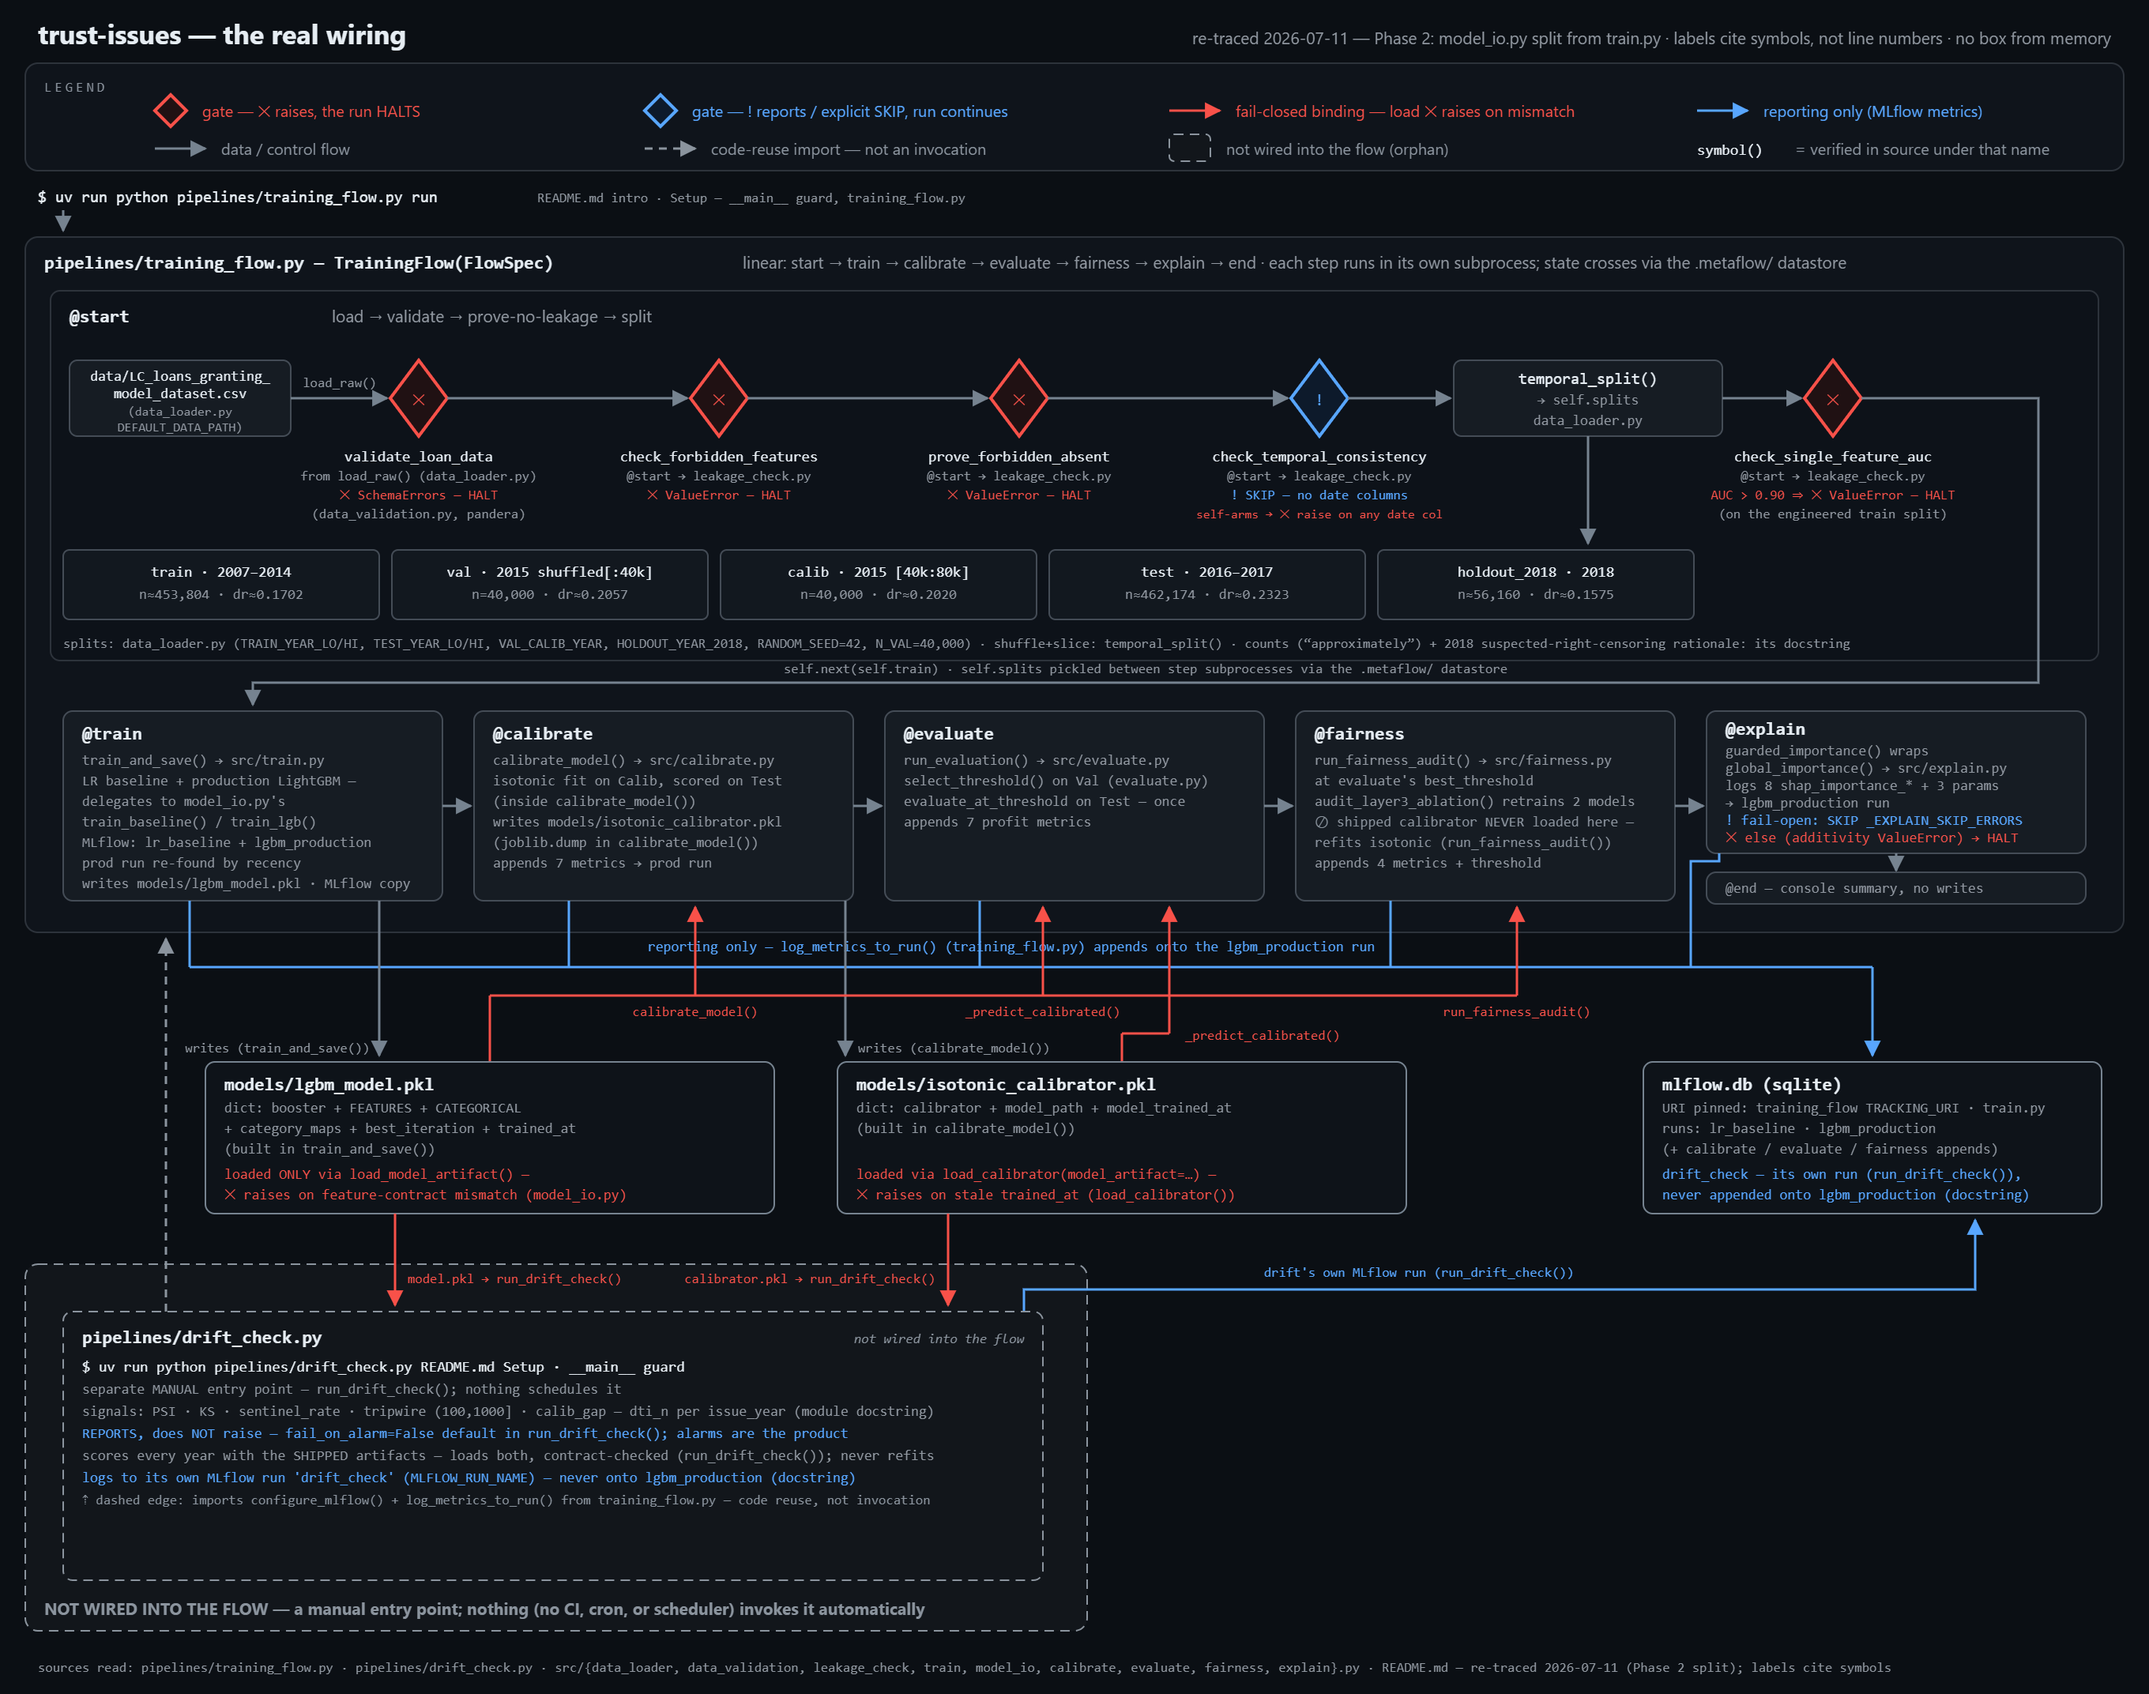
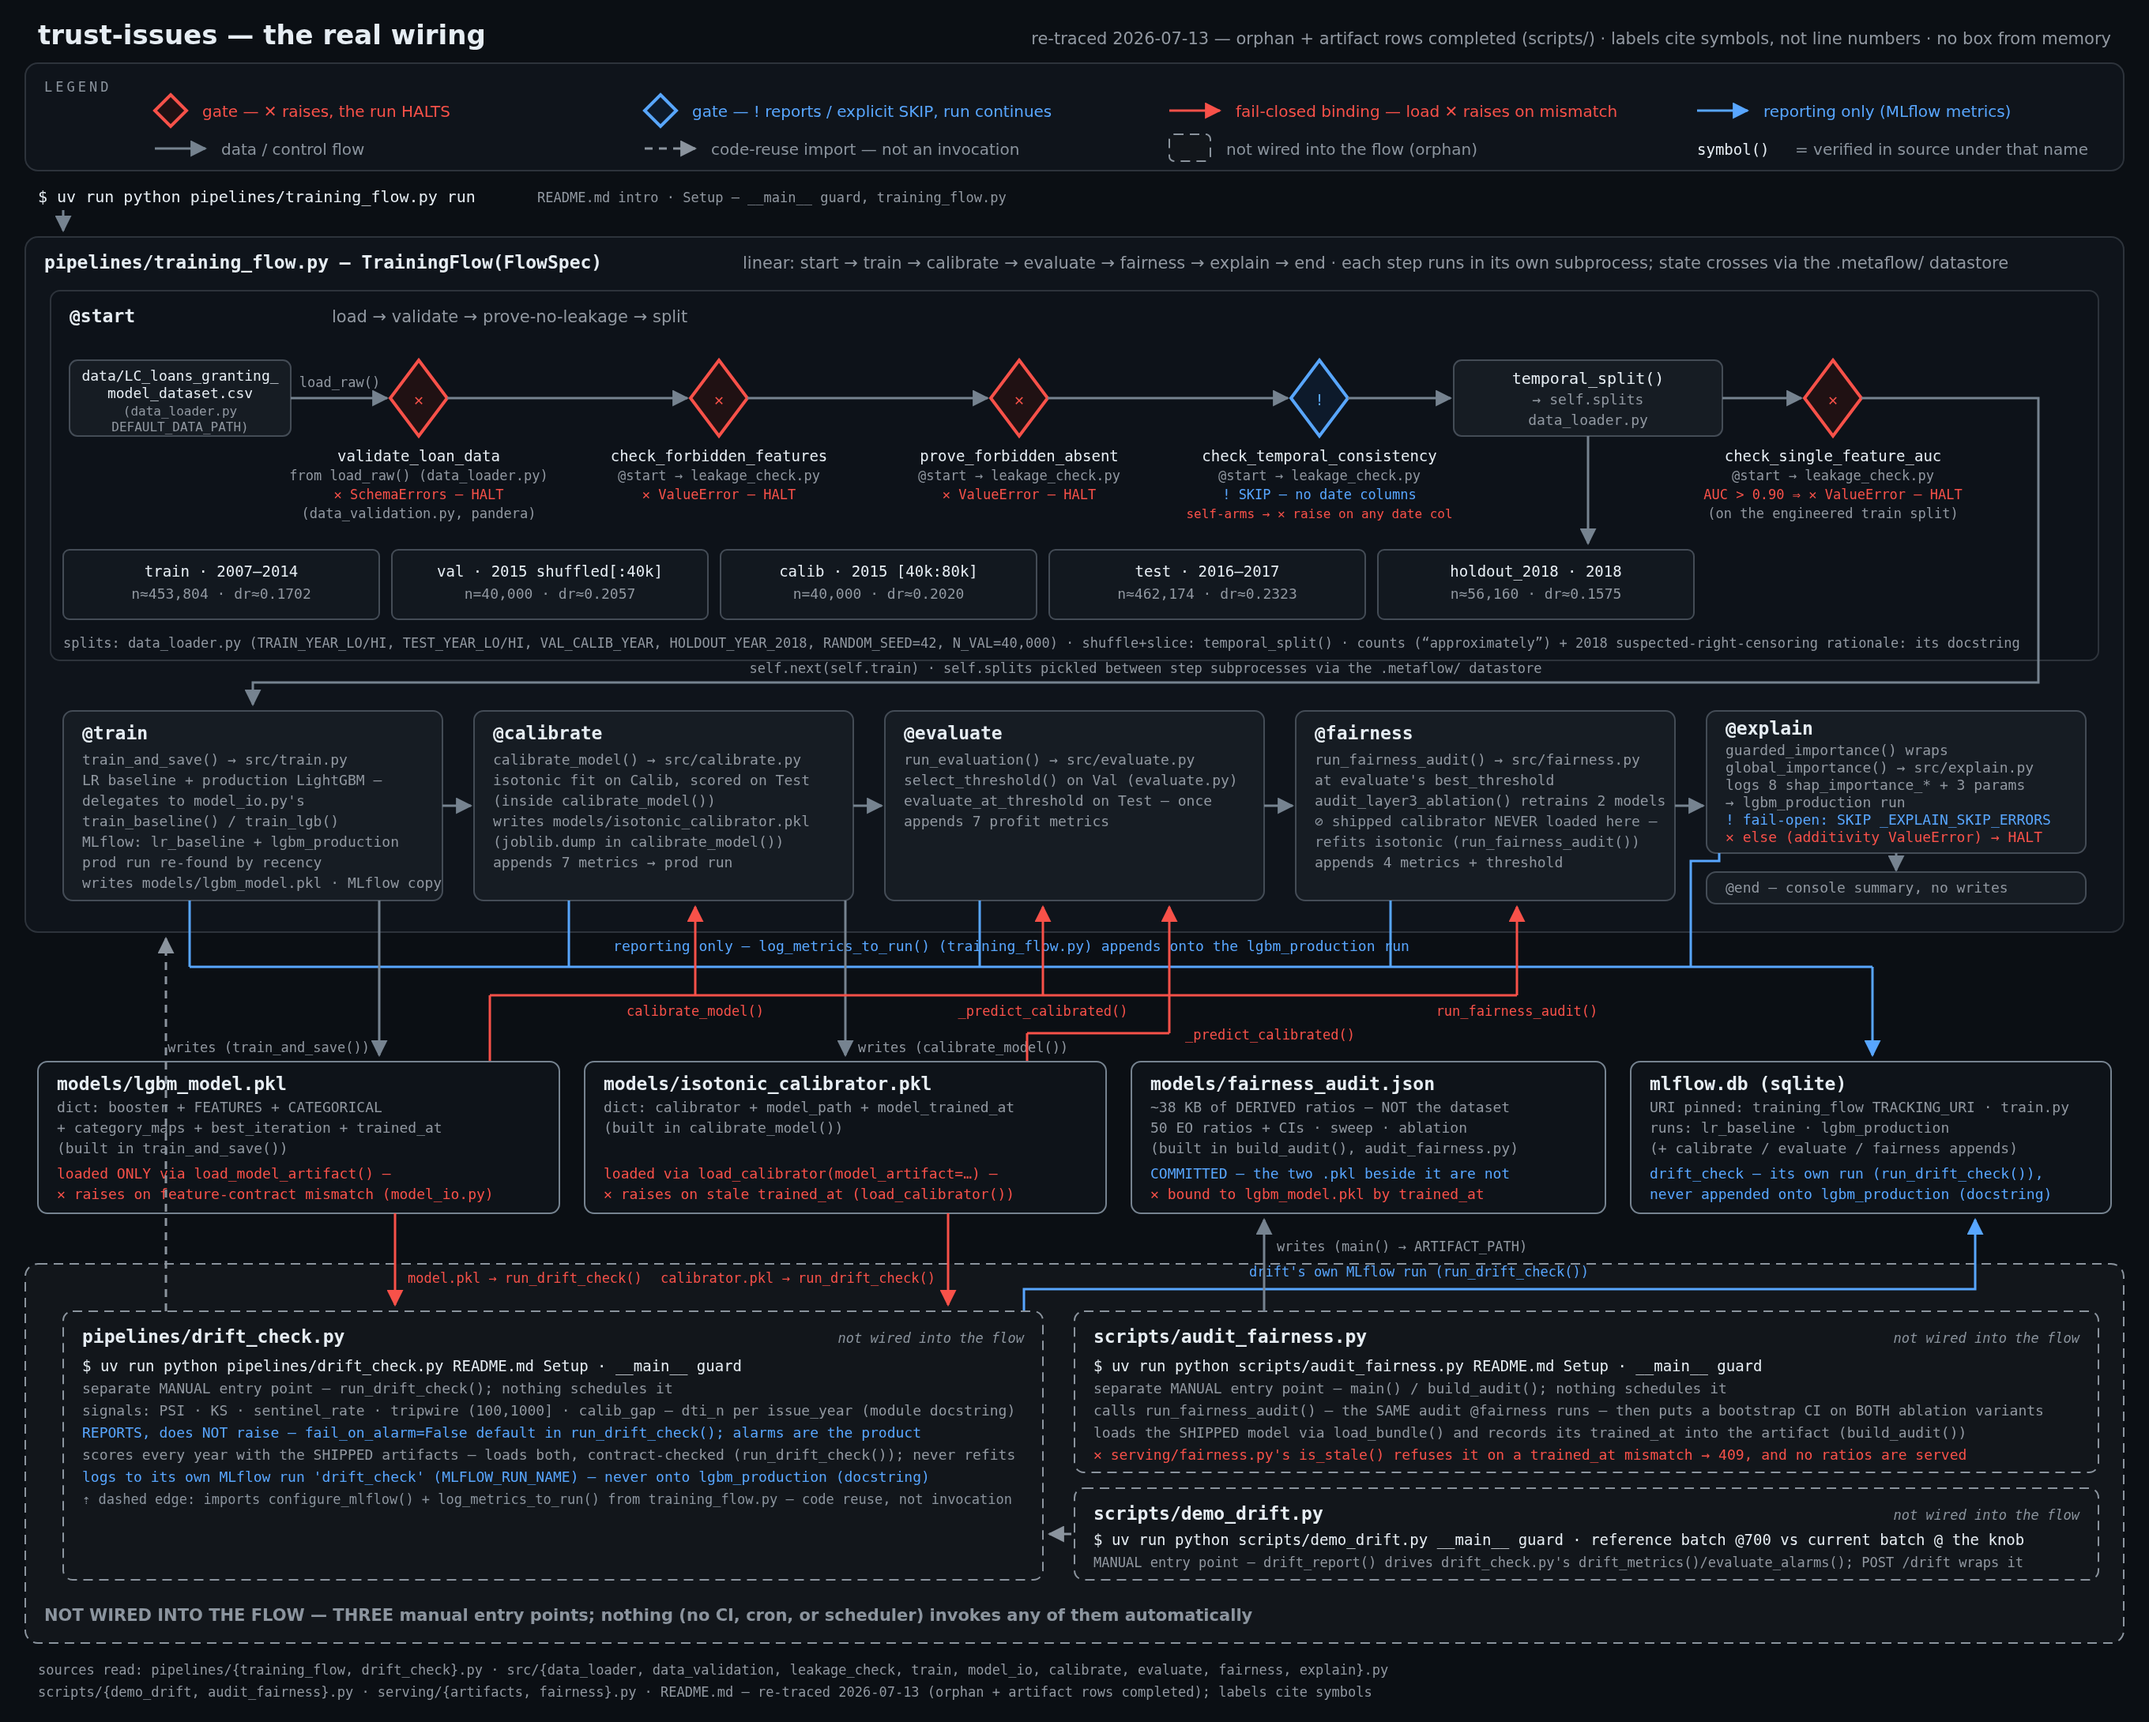
docs: complete the training diagram's orphan + artifact rows
Not a correction — every existing box verified true against code — but a completeness fix: the diagram has an orphan legend and is titled 'the real wiring', so it should show all orphans. Added audit_fairness.py and demo_drift.py to the orphan container (same class as drift_check.py; banner pluralized), fairness_audit.json to the artifacts row (third artifact, run_fairness_audit()→bound by trained_at), and scripts/ to the footer's sources-read. PNG regenerated through the Export code path. No flow/metric box changed — those were all verified accurate.

diff --git a/docs/architecture.html b/docs/architecture.html
@@ -22,7 +22,7 @@
   <button id="exportBtn">Export as PNG</button>
 </div>
 <div class="wrap">
-<svg id="arch" xmlns="http://www.w3.org/2000/svg" width="1360" height="1072" viewBox="0 0 1360 1072"
+<svg id="arch" xmlns="http://www.w3.org/2000/svg" width="1360" height="1090" viewBox="0 0 1360 1090"
      role="img" aria-label="trust-issues architecture: Metaflow training flow, fail-closed gates, artifact contracts, and orphan modules">
 <style>
   text{font-family:ui-monospace,'SF Mono',Menlo,Consolas,'Liberation Mono',monospace;fill:#adbac7;}
@@ -67,11 +67,11 @@
     <path d="M0,0L10,5L0,10z" fill="#8b949e"/></marker>
 </defs>
 
-<rect x="0" y="0" width="1360" height="1072" fill="#0b0f14"/>
+<rect x="0" y="0" width="1360" height="1090" fill="#0b0f14"/>
 
 <!-- ======================= header ======================= -->
 <text class="sans title" x="24" y="28">trust-issues — the real wiring</text>
-<text class="sans sub end" x="1336" y="28">re-traced 2026-07-11 — Phase 2: model_io.py split from train.py · labels cite symbols, not line numbers · no box from memory</text>
+<text class="sans sub end" x="1336" y="28">re-traced 2026-07-13 — orphan + artifact rows completed (scripts/) · labels cite symbols, not line numbers · no box from memory</text>
 
 <!-- ======================= legend ======================= -->
 <rect class="cont" x="16" y="40" width="1328" height="68" rx="8"/>
@@ -284,38 +284,47 @@
 <text class="m85 mid halt" x="660" y="643">_predict_calibrated()</text>
 <text class="m85 mid halt" x="960" y="643">run_fairness_audit()</text>
 <!-- calibrator.pkl → upward consumer -->
-<line class="eh" x1="710" y1="672" x2="710" y2="654"/>
-<line class="eh" x1="710" y1="654" x2="740" y2="654"/>
+<line class="eh" x1="650" y1="672" x2="650" y2="654"/>
+<line class="eh" x1="650" y1="654" x2="740" y2="654"/>
 <line class="eh" x1="740" y1="654" x2="740" y2="574" marker-end="url(#mr)"/>
 <text class="m85 halt" x="750" y="658">_predict_calibrated()</text>
 
 <!-- ======================= artifacts ======================= -->
-<rect class="art" x="130" y="672" width="360" height="96" rx="6"/>
-<text class="bt" x="142" y="690">models/lgbm_model.pkl</text>
-<text class="m9" x="142" y="704">dict: booster + FEATURES + CATEGORICAL</text>
-<text class="m9" x="142" y="717">+ category_maps + best_iteration + trained_at</text>
-<text class="m9" x="142" y="730">(built in train_and_save())</text>
-<text class="m9 halt" x="142" y="746">loaded ONLY via load_model_artifact() —</text>
-<text class="m9 halt" x="142" y="759">✕ raises on feature-contract mismatch (model_io.py)</text>
+<rect class="art" x="24" y="672" width="330" height="96" rx="6"/>
+<text class="bt" x="36" y="690">models/lgbm_model.pkl</text>
+<text class="m9" x="36" y="704">dict: booster + FEATURES + CATEGORICAL</text>
+<text class="m9" x="36" y="717">+ category_maps + best_iteration + trained_at</text>
+<text class="m9" x="36" y="730">(built in train_and_save())</text>
+<text class="m9 halt" x="36" y="746">loaded ONLY via load_model_artifact() —</text>
+<text class="m9 halt" x="36" y="759">✕ raises on feature-contract mismatch (model_io.py)</text>
 
-<rect class="art" x="530" y="672" width="360" height="96" rx="6"/>
-<text class="bt" x="542" y="690">models/isotonic_calibrator.pkl</text>
-<text class="m9" x="542" y="704">dict: calibrator + model_path + model_trained_at</text>
-<text class="m9" x="542" y="717">(built in calibrate_model())</text>
-<text class="m9 halt" x="542" y="746">loaded via load_calibrator(model_artifact=…) —</text>
-<text class="m9 halt" x="542" y="759">✕ raises on stale trained_at (load_calibrator())</text>
+<rect class="art" x="370" y="672" width="330" height="96" rx="6"/>
+<text class="bt" x="382" y="690">models/isotonic_calibrator.pkl</text>
+<text class="m9" x="382" y="704">dict: calibrator + model_path + model_trained_at</text>
+<text class="m9" x="382" y="717">(built in calibrate_model())</text>
+<text class="m9 halt" x="382" y="746">loaded via load_calibrator(model_artifact=…) —</text>
+<text class="m9 halt" x="382" y="759">✕ raises on stale trained_at (load_calibrator())</text>
 
-<rect class="art" x="1040" y="672" width="290" height="96" rx="6"/>
-<text class="bt" x="1052" y="690">mlflow.db  (sqlite)</text>
-<text class="m9" x="1052" y="704">URI pinned: training_flow TRACKING_URI · train.py</text>
-<text class="m9" x="1052" y="717">runs: lr_baseline · lgbm_production</text>
-<text class="m9" x="1052" y="730">(+ calibrate / evaluate / fairness appends)</text>
-<text class="m9 rep" x="1052" y="746">drift_check — its own run (run_drift_check()),</text>
-<text class="m9 rep" x="1052" y="759">never appended onto lgbm_production (docstring)</text>
+<!-- NEW: the audit artifact. Written by an ORPHAN (scripts/audit_fairness.py), not by the flow. -->
+<rect class="art" x="716" y="672" width="300" height="96" rx="6"/>
+<text class="bt" x="728" y="690">models/fairness_audit.json</text>
+<text class="m9" x="728" y="704">~38 KB of DERIVED ratios — NOT the dataset</text>
+<text class="m9" x="728" y="717">50 EO ratios + CIs · sweep · ablation</text>
+<text class="m9" x="728" y="730">(built in build_audit(), audit_fairness.py)</text>
+<text class="m9 rep" x="728" y="746">COMMITTED — the two .pkl beside it are not</text>
+<text class="m9 halt" x="728" y="759">✕ bound to lgbm_model.pkl by trained_at</text>
+
+<rect class="art" x="1032" y="672" width="304" height="96" rx="6"/>
+<text class="bt" x="1044" y="690">mlflow.db  (sqlite)</text>
+<text class="m9" x="1044" y="704">URI pinned: training_flow TRACKING_URI · train.py</text>
+<text class="m9" x="1044" y="717">runs: lr_baseline · lgbm_production</text>
+<text class="m9" x="1044" y="730">(+ calibrate / evaluate / fairness appends)</text>
+<text class="m9 rep" x="1044" y="746">drift_check — its own run (run_drift_check()),</text>
+<text class="m9 rep" x="1044" y="759">never appended onto lgbm_production (docstring)</text>
 
 <!-- ======================= orphan container (painted FIRST so edges land on top) ======================= -->
 <!-- shrunk to wrap only drift_check: explain.py is no longer an orphan (wired as @explain) -->
-<rect class="orph" x="16" y="800" width="672" height="232" rx="8"/>
+<rect class="orph" x="16" y="800" width="1328" height="240" rx="8"/>
 
 <!-- ======================= contracts down to orphans (red) ======================= -->
 <line class="eh" x1="250" y1="768" x2="250" y2="826" marker-end="url(#mr)"/>
@@ -342,10 +351,35 @@
 <text class="m9 rep" x="52" y="938">logs to its own MLflow run 'drift_check' (MLFLOW_RUN_NAME) — never onto lgbm_production (docstring)</text>
 <text class="m85 grey" x="52" y="952">⇡ dashed edge: imports configure_mlflow() + log_metrics_to_run() from training_flow.py — code reuse, not invocation</text>
 
-<text class="sans sub grey" x="28" y="1022" style="font-weight:700">NOT WIRED INTO THE FLOW — a manual entry point; nothing (no CI, cron, or scheduler) invokes it automatically</text>
+<!-- orphan 2: scripts/audit_fairness.py -->
+<rect class="orph" x="680" y="830" width="648" height="102" rx="6"/>
+<text class="bt" x="692" y="850">scripts/audit_fairness.py</text>
+<text class="m85 grey ital end" x="1316" y="850">not wired into the flow</text>
+<text class="m95 wht" x="692" y="868">$ uv run python scripts/audit_fairness.py      README.md Setup · __main__ guard</text>
+<text class="m9" x="692" y="882">separate MANUAL entry point — main() / build_audit(); nothing schedules it</text>
+<text class="m9" x="692" y="896">calls run_fairness_audit() — the SAME audit @fairness runs — then puts a bootstrap CI on BOTH ablation variants</text>
+<text class="m9" x="692" y="910">loads the SHIPPED model via load_bundle() and records its trained_at into the artifact (build_audit())</text>
+<text class="m9 halt" x="692" y="924">✕ serving/fairness.py's is_stale() refuses it on a trained_at mismatch → 409, and no ratios are served</text>
+
+<!-- audit_fairness.py WRITES the artifact above. The flow does not. -->
+<line class="ef" x1="800" y1="830" x2="800" y2="772" marker-end="url(#mg)"/>
+<text class="m85" x="808" y="792">writes (main() → ARTIFACT_PATH)</text>
+
+<!-- orphan 3: scripts/demo_drift.py -->
+<rect class="orph" x="680" y="942" width="648" height="58" rx="6"/>
+<text class="bt" x="692" y="962">scripts/demo_drift.py</text>
+<text class="m85 grey ital end" x="1316" y="962">not wired into the flow</text>
+<text class="m95 wht" x="692" y="978">$ uv run python scripts/demo_drift.py      __main__ guard · reference batch @700 vs current batch @ the knob</text>
+<text class="m85" x="692" y="992">MANUAL entry point — drift_report() drives drift_check.py's drift_metrics()/evaluate_alarms(); POST /drift wraps it</text>
+
+<!-- demo_drift imports the monitor: code reuse, not invocation -->
+<line class="eo" x1="678" y1="971" x2="664" y2="971" marker-end="url(#mo)"/>
+
+<text class="sans sub grey" x="28" y="1026" style="font-weight:700">NOT WIRED INTO THE FLOW — THREE manual entry points; nothing (no CI, cron, or scheduler) invokes any of them automatically</text>
 
 <!-- ======================= footer ======================= -->
-<text class="m85" x="24" y="1058">sources read: pipelines/training_flow.py · pipelines/drift_check.py · src/{data_loader, data_validation, leakage_check, train, model_io, calibrate, evaluate, fairness, explain}.py · README.md — re-traced 2026-07-11 (Phase 2 split); labels cite symbols</text>
+<text class="m85" x="24" y="1060">sources read: pipelines/{training_flow, drift_check}.py · src/{data_loader, data_validation, leakage_check, train, model_io, calibrate, evaluate, fairness, explain}.py</text>
+<text class="m85" x="24" y="1074">scripts/{demo_drift, audit_fairness}.py · serving/{artifacts, fairness}.py · README.md — re-traced 2026-07-13 (orphan + artifact rows completed); labels cite symbols</text>
 </svg>
 </div>
 
